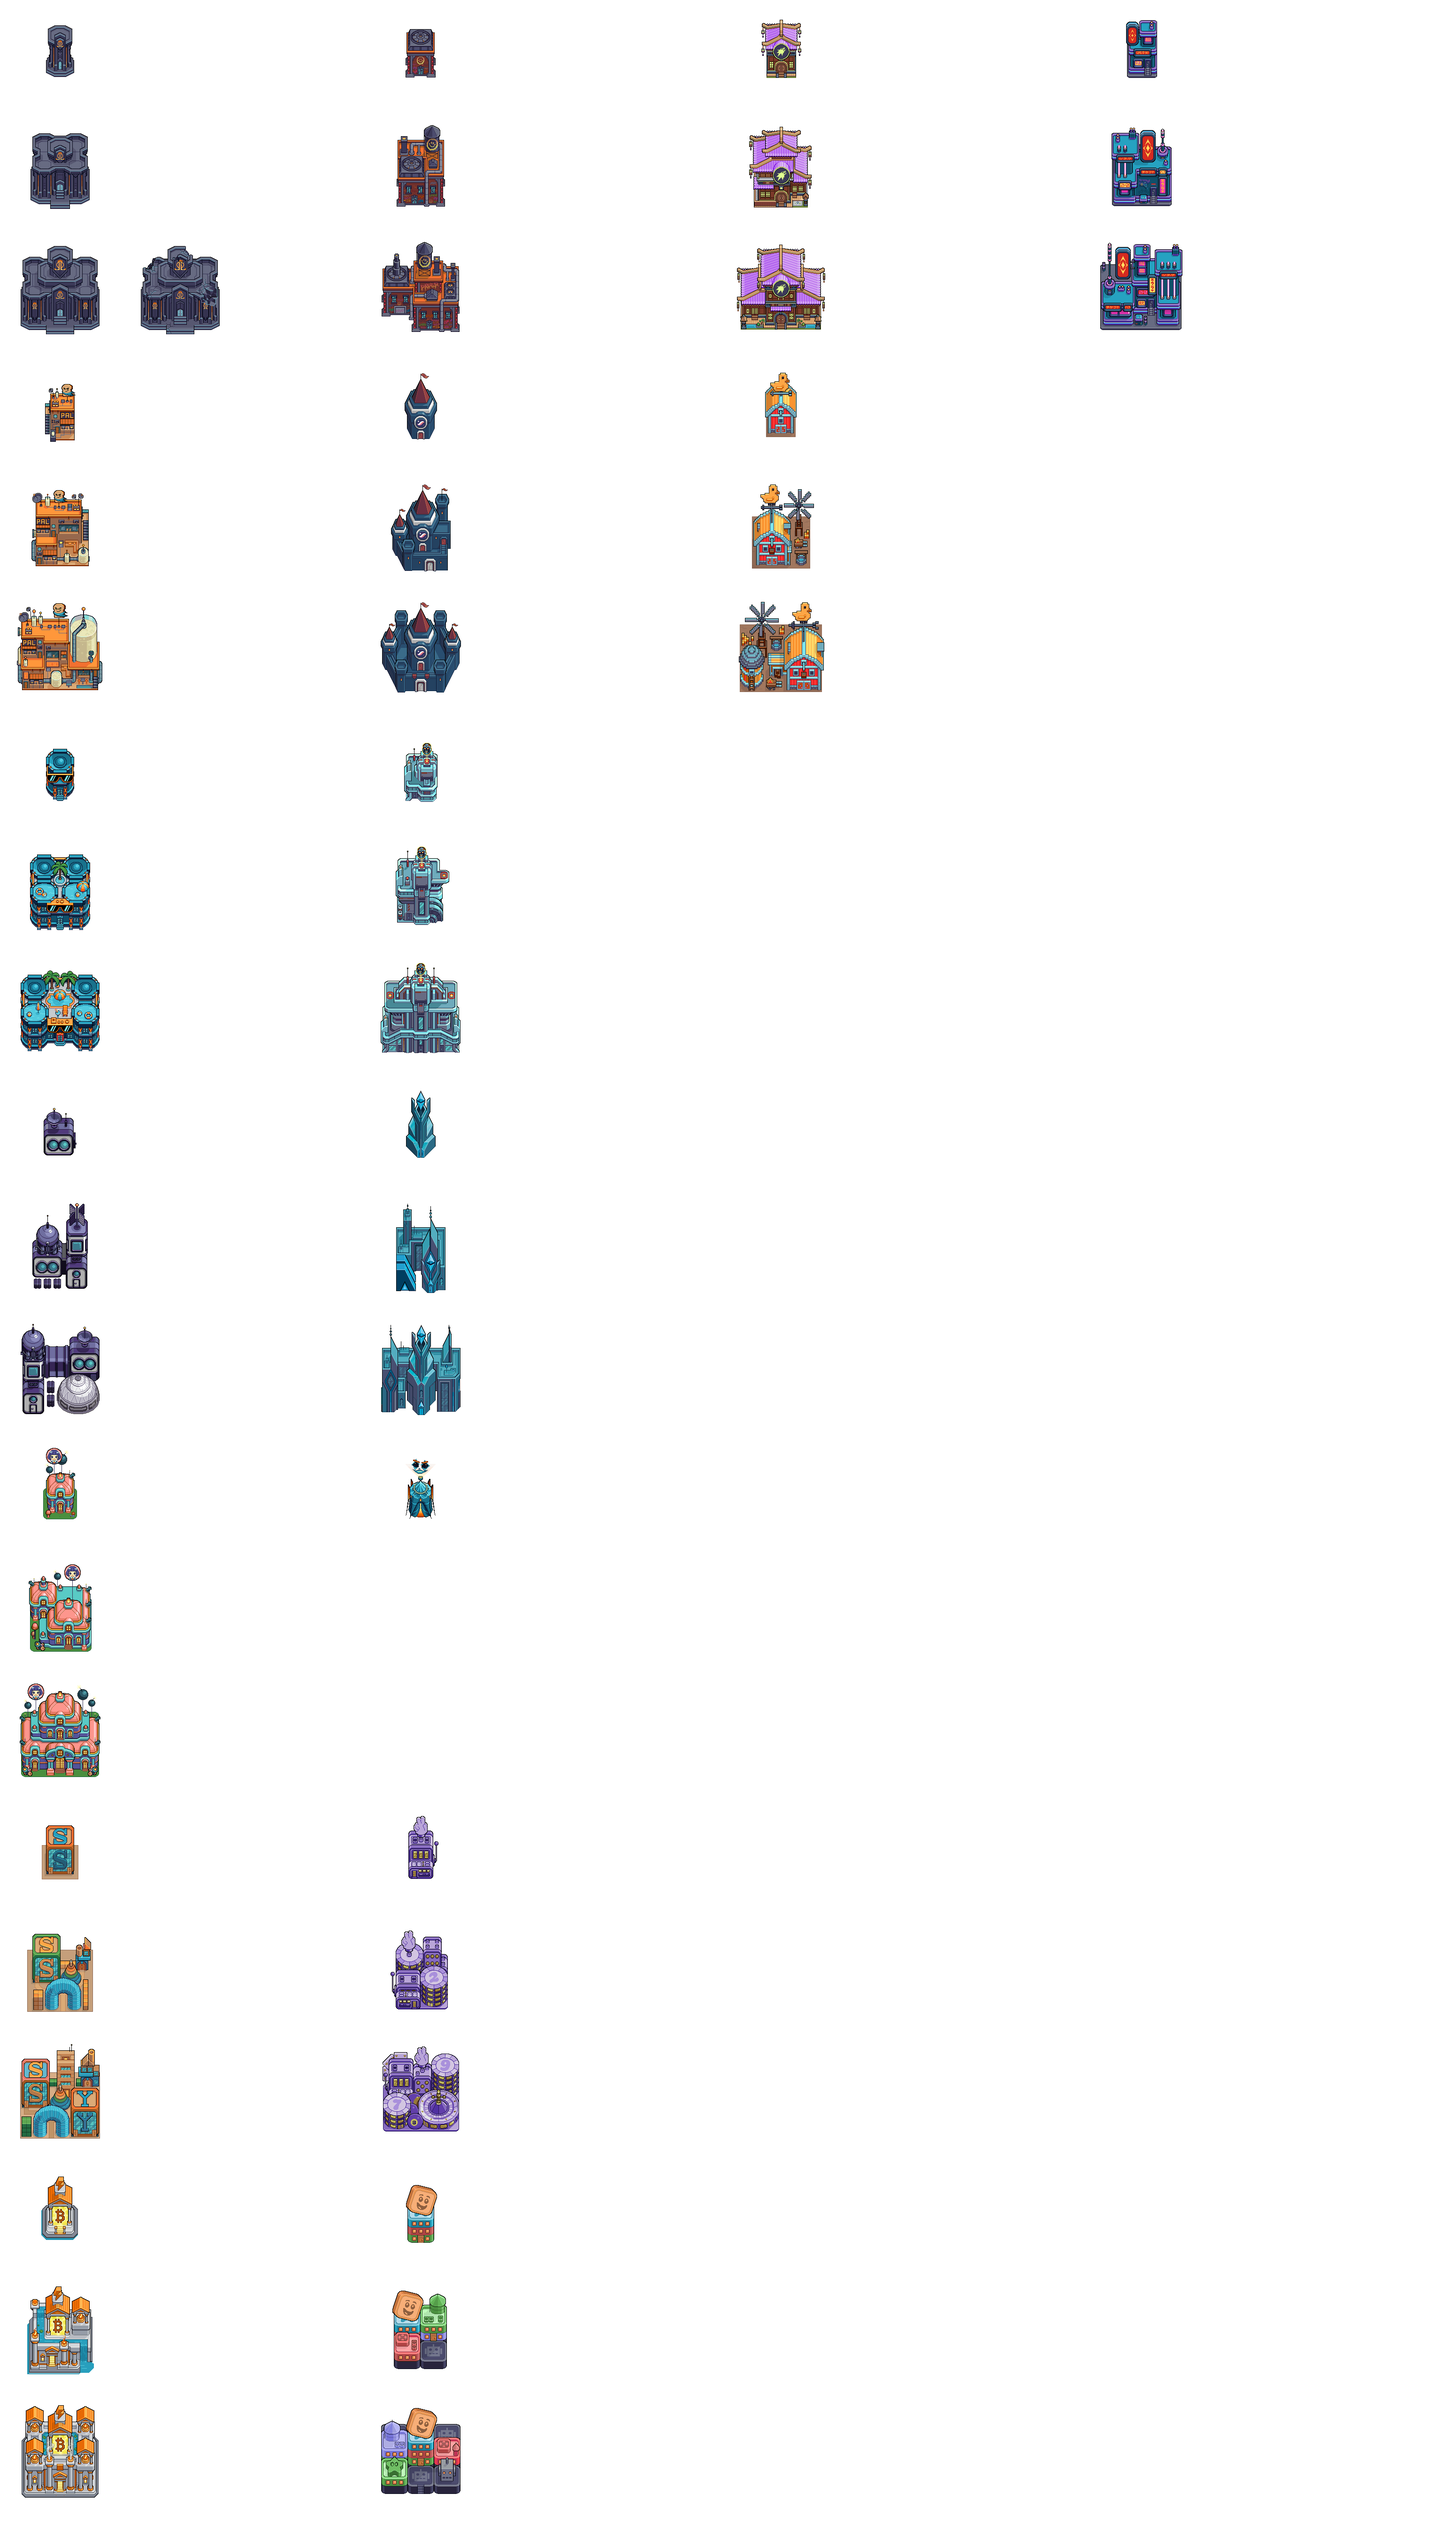
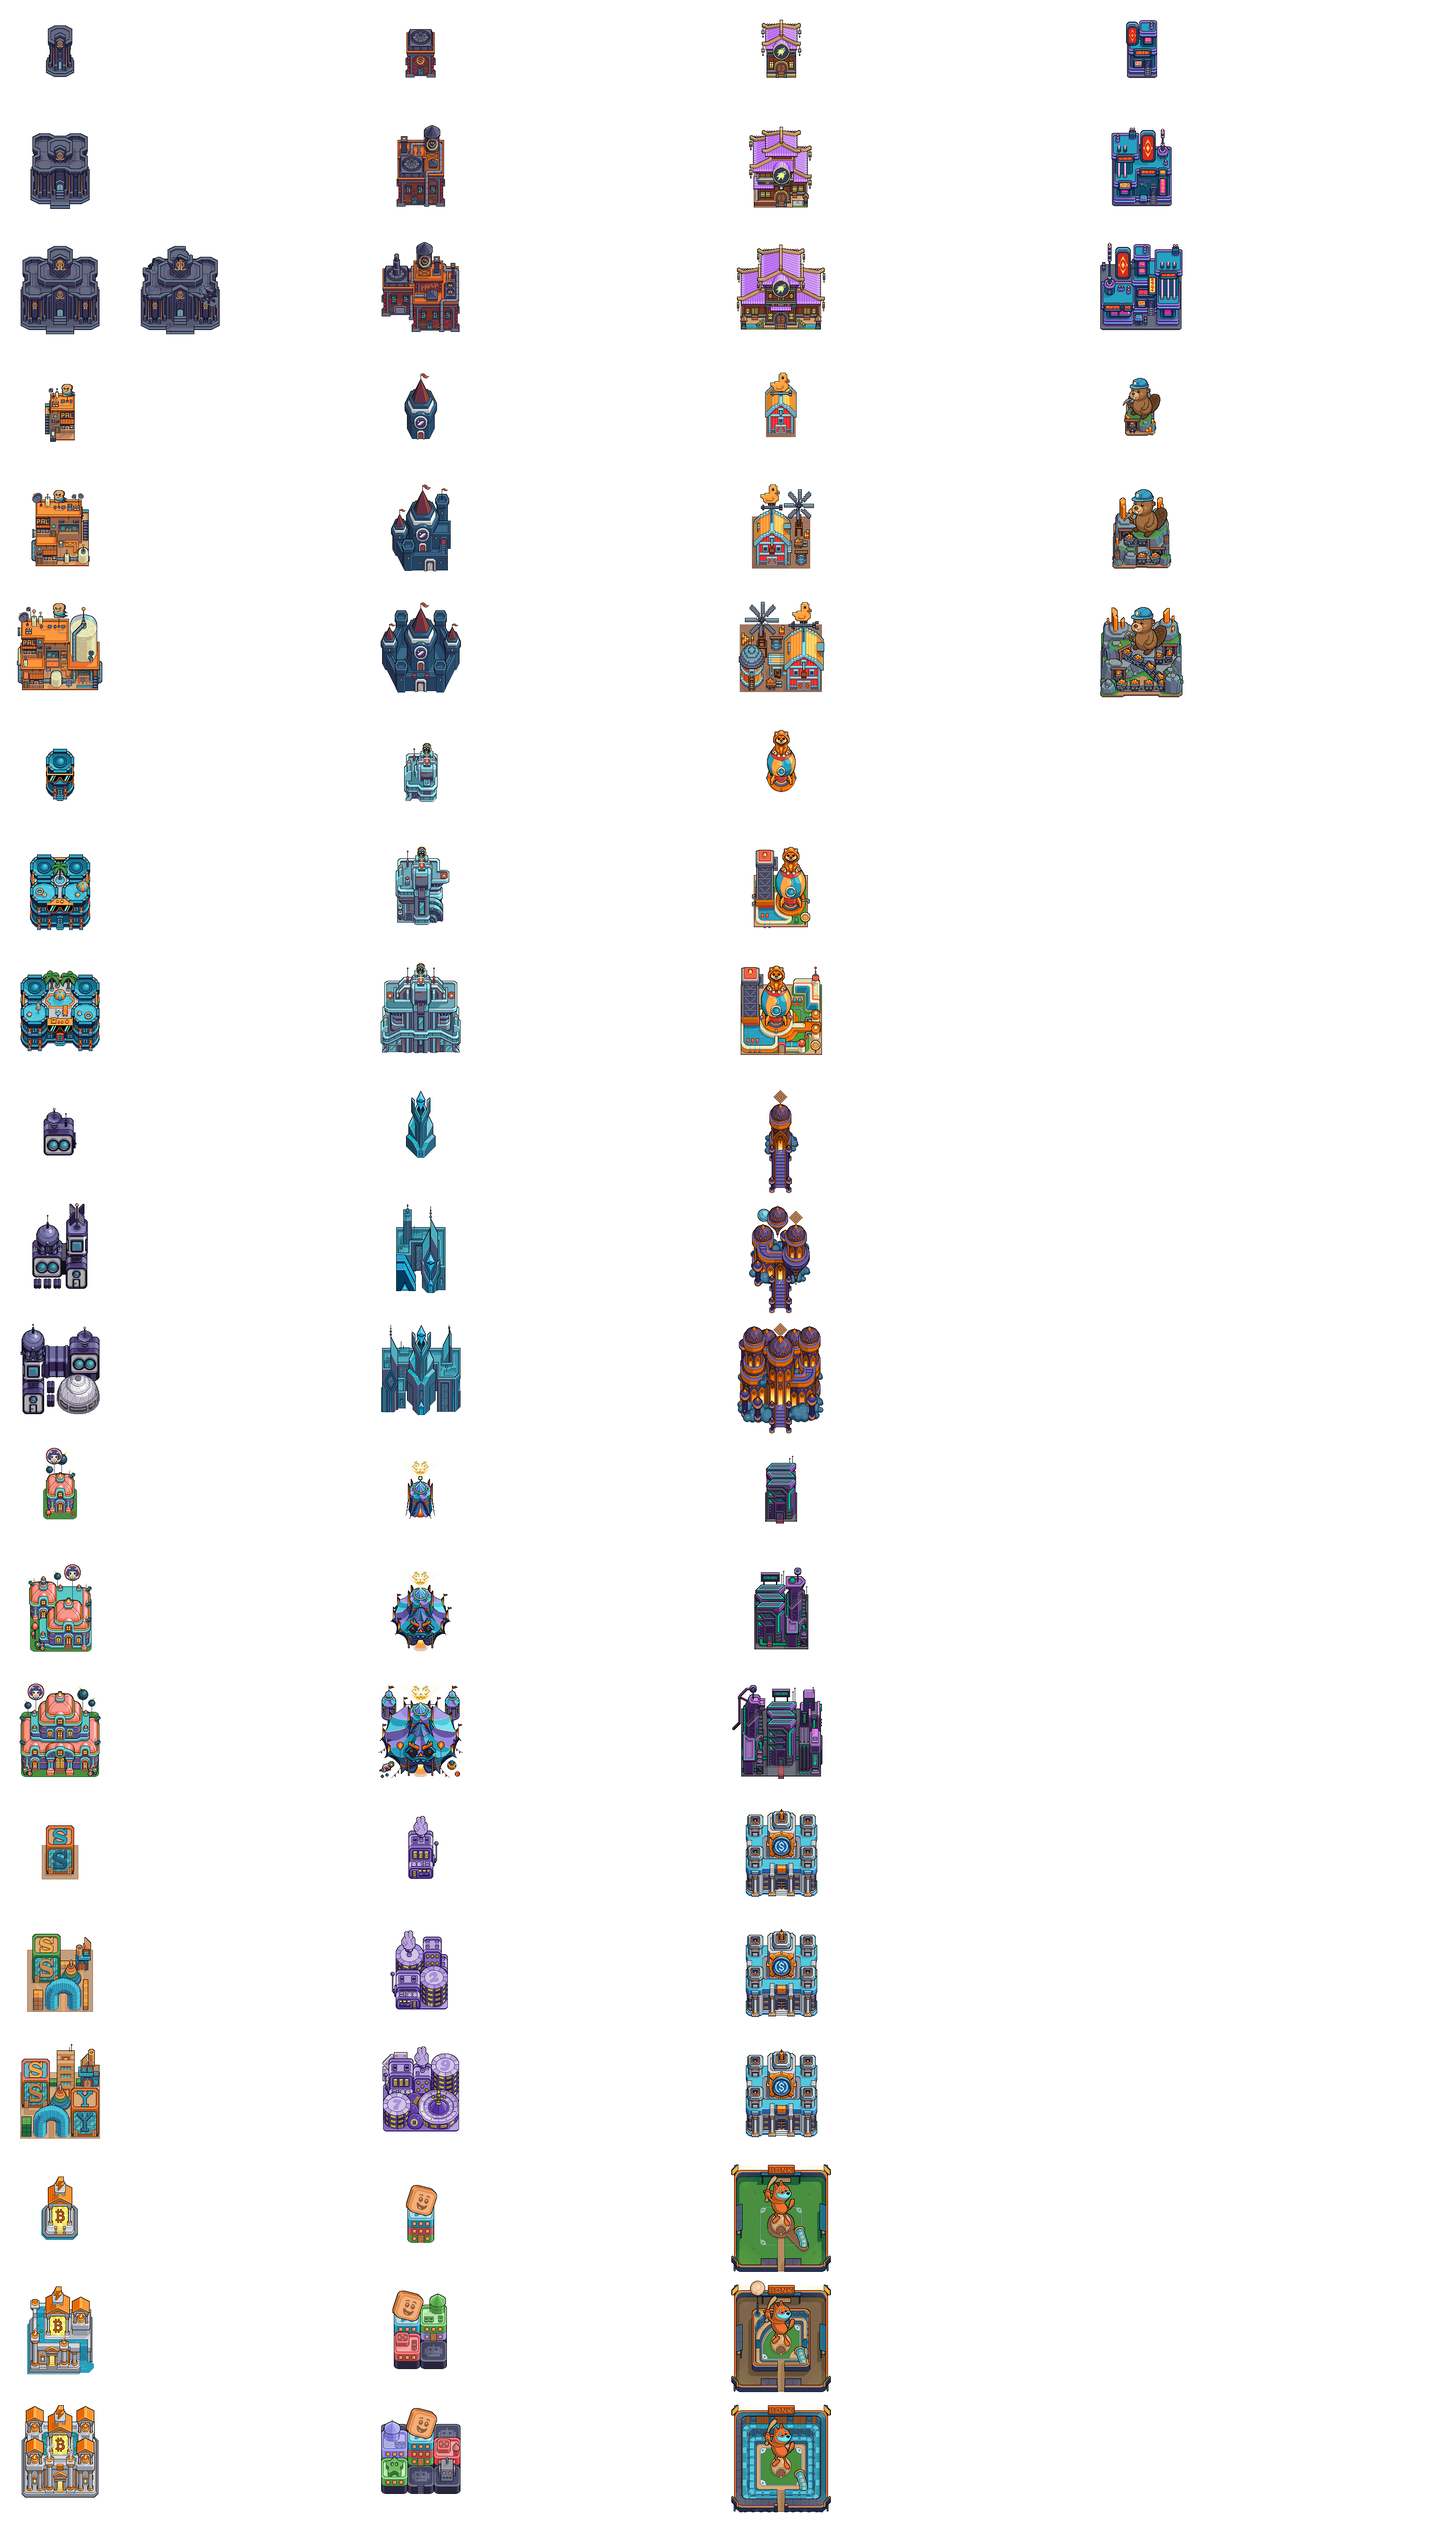
add buildings

Changed region(s): [[0.5, 0.2812, 0.5938, 1.0], [0.75, 0.1562, 0.8438, 0.2812], [0.25, 0.5625, 0.3125, 0.7188]]

diff --git a/client/src/lib/components/+game-map/three/buildings.ts b/client/src/lib/components/+game-map/three/buildings.ts
@@ -12,6 +12,7 @@ export const buildingAtlasMeta = [
       { name: 'empty_1', frameRange: [250, 250] },
       { name: 'empty_2', frameRange: [250, 250] },
       { name: 'empty_3', frameRange: [250, 250] },
+      
       { name: 'auction', frameRange: [250, 250] },
       { name: 'auction_1', frameRange: [250, 250] },
       { name: 'auction_2', frameRange: [250, 250] },
@@ -20,54 +21,93 @@ export const buildingAtlasMeta = [
       { name: 'LORDS_1', frameRange: [0, 0] },
       { name: 'LORDS_2', frameRange: [12, 12] },
       // { name: 'lords_3', frameRange: [24, 24] },
+
       { name: 'PAL_1', frameRange: [36, 36] },
       { name: 'PAL_2', frameRange: [48, 48] },
       // { name: 'PAL_3', frameRange: [60, 60] },
-      { name: 'PIMP_1', frameRange: [72, 72] },
-      { name: 'PIMP_2', frameRange: [84, 84] },
-      { name: 'PIMP_3', frameRange: [96, 96] },
+
+      { name: 'SLAY_1', frameRange: [72, 72] },
+      { name: 'SLAY_2', frameRange: [84, 84] },
+      { name: 'SLAY_3', frameRange: [96, 96] },
+
       { name: 'EKUBO_1', frameRange: [108, 108] },
       { name: 'EKUBO_2', frameRange: [120, 120] },
       // { name: 'EKUBO_3', frameRange: [132, 132] },
+
       { name: 'SISTERS_1', frameRange: [144, 144] },
       { name: 'SISTERS_2', frameRange: [156, 156] },
       { name: 'SISTERS_3', frameRange: [168, 168] },
+
       { name: 'SLINKY_1', frameRange: [180, 180] },
       { name: 'SLINKY_2', frameRange: [192, 192] },
       { name: 'SLINKY_3', frameRange: [204, 204] },
+
       { name: 'BITCOIN_1', frameRange: [216, 216] },
       { name: 'BITCOIN_2', frameRange: [228, 228] },
       // { name: 'BITCOIN_3', frameRange: [240, 240] },
+
       { name: 'PAPER_1', frameRange: [3, 3] },
       { name: 'PAPER_2', frameRange: [15, 15] },
       { name: 'PAPER_3', frameRange: [27, 27] },
+
       { name: 'STARKNET_1', frameRange: [39, 39] },
       { name: 'STARKNET_2', frameRange: [51, 51] },
       // { name: 'STARKNET_3', frameRange: [63, 63] },
+
       { name: 'BROTHER_1', frameRange: [75, 75] },
       { name: 'BROTHER_2', frameRange: [87, 87] },
       // { name: 'BROTHER_3', frameRange: [99, 99] },
+
       { name: 'ETHEREUM_1', frameRange: [111, 111] },
       { name: 'ETHEREUM_2', frameRange: [123, 123] },
       // { name: 'ETHEREUM_3', frameRange: [135, 135] },
-      { name: 'CIRCUS_1', frameRange: [147, 147] },
-      // { name: 'CIRCUS_2', frameRange: [159, 159] },
-      // { name: 'CIRCUS_3', frameRange: [171, 171] },
+
+      { name: 'SCHIZODIO_1', frameRange: [147, 147] },
+      { name: 'SCHIZODIO_2', frameRange: [159, 159] },
+      { name: 'SCHIZODIO_3', frameRange: [171, 171] },
+
       { name: 'NUMS_1', frameRange: [183, 183] },
       { name: 'NUMS_2', frameRange: [195, 195] },
       { name: 'NUMS_3', frameRange: [207, 207] },
+
       { name: 'FLIP_1', frameRange: [219, 219] },
       { name: 'FLIP_2', frameRange: [231, 231] },
       { name: 'FLIP_3', frameRange: [243, 243] },
+
       { name: 'WNT_1', frameRange: [6, 6] },
       { name: 'WNT_2', frameRange: [18, 18] },
       // { name: 'WNT_3', frameRange: [30, 30] },
+
       { name: 'QQ_1', frameRange: [42, 42] },
       { name: 'QQ_2', frameRange: [54, 54] },
       // { name: 'QQ_3', frameRange: [66, 66] },
+      
+      { name: 'RUNEDOG_1', frameRange: [72, 72] },
+      { name: 'RUNEDOG_2', frameRange: [84, 84] },
+      { name: 'RUNEDOG_3', frameRange: [96, 96] },
+
+      { name: 'DREAMS_1', frameRange: [96, 96] },
+      { name: 'DREAMS_2', frameRange: [108, 108] },
+      { name: 'DREAMS_3', frameRange: [120, 120] },
+
+      { name: 'SOLANA_1', frameRange: [132, 132] },
+      { name: 'SOLANA_2', frameRange: [144, 144] },
+      { name: 'SOLANA_3', frameRange: [156, 156] },
+
+      { name: 'USDC_1', frameRange: [168, 168] },
+      { name: 'USDC_2', frameRange: [180, 180] },
+      { name: 'USDC_3', frameRange: [192, 192] },
+
+      { name: 'BONK_1', frameRange: [204, 204] },
+      { name: 'BONK_2', frameRange: [216, 216] },
+      { name: 'BONK_3', frameRange: [228, 228] },
+
       { name: 'EVERAI_1', frameRange: [9, 9] },
       { name: 'EVERAI_2', frameRange: [21, 21] },
       // { name: 'EVERAI_3', frameRange: [33, 33] },
+      { name: 'BURR_1', frameRange: [45, 45] },
+      { name: 'BURR_2', frameRange: [57, 57] },
+      { name: 'BURR_3', frameRange: [69, 69] },
     ],
   },
   {
